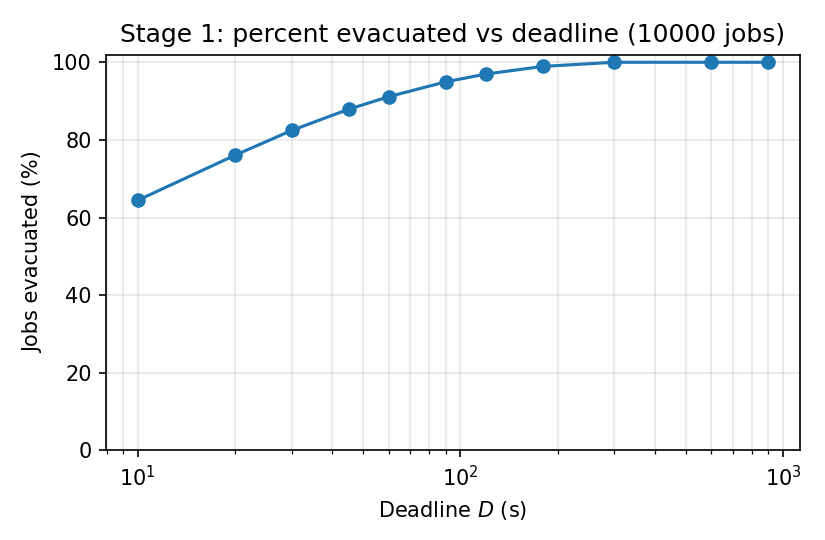
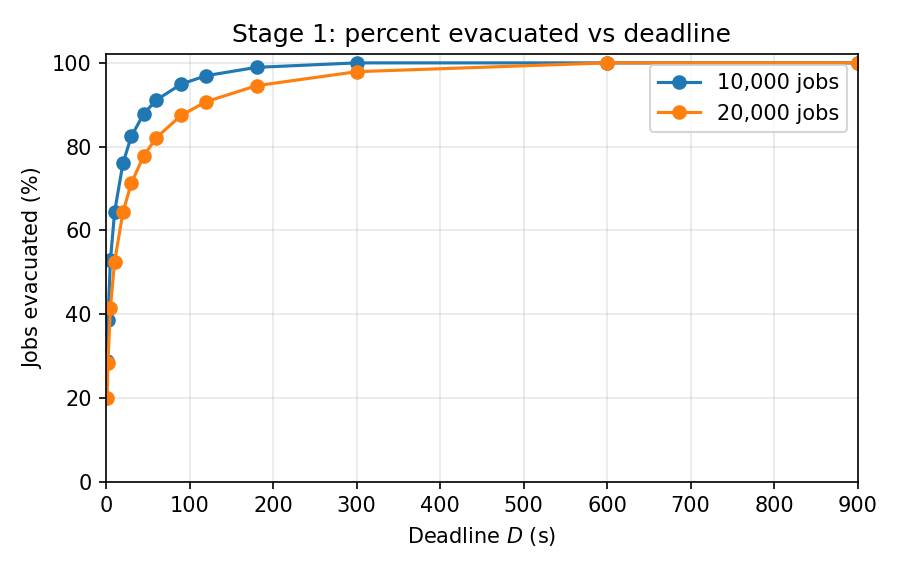
Sweep deadline plot: linear axis, D down to 1s, 10k vs 20k overlay
JOB_COUNTS constant lets the script overlay multiple workload sizes on
one figure. D range now spans 1s..900s and uses a linear axis for the
tight-deadline cliff. CSV grows a `total_jobs` column.

Changed region(s): [[0.0, 0.0296, 0.9697, 0.9778], [0.1818, 0.2963, 0.2727, 0.3556]]

diff --git a/agent-migrate/evacuation/plot_evacuation_vs_deadline.py b/agent-migrate/evacuation/plot_evacuation_vs_deadline.py
@@ -1,9 +1,11 @@
 """Sweep deadline D and plot percent of jobs evacuated.
 
+Edit `JOB_COUNTS` to overlay additional workload sizes.
+
 Usage:
     cd evacuation && uv run python plot_evacuation_vs_deadline.py
 
-Writes `outputs/percent_evacuated_vs_D.pdf` and `outputs/sweep_D.csv`.
+Writes `outputs/percent_evacuated_vs_D.{pdf,png}` and `outputs/sweep_D.csv`.
 """
 
 from __future__ import annotations
@@ -13,35 +15,43 @@ from pathlib import Path
 
 import matplotlib.pyplot as plt
 
-from instance import build_instance, TOTAL_JOBS_DEFAULT
+from instance import build_instance
 from stage1 import solve_stage1
 
-D_SWEEP_S = (10, 20, 30, 45, 60, 90, 120, 180, 300, 600, 900)
+D_SWEEP_S = (1, 2, 5, 10, 20, 30, 45, 60, 90, 120, 180, 300, 600, 900)
+JOB_COUNTS = (10_000, 20_000)
 
 
 def main() -> None:
     out = Path(__file__).resolve().parent / "outputs"
     out.mkdir(exist_ok=True)
     rows = []
-    for D in D_SWEEP_S:
-        res = solve_stage1(build_instance(D=float(D)))
-        evacuated = TOTAL_JOBS_DEFAULT - res.Z_star
-        rows.append((D, res.Z_star, 100.0 * evacuated / TOTAL_JOBS_DEFAULT))
-        print(f"D={D:4d}s  Z*={res.Z_star:7.1f}  {rows[-1][2]:5.1f}% evacuated")
+    series: dict[int, list[float]] = {}
+    for jobs in JOB_COUNTS:
+        pct = []
+        for D in D_SWEEP_S:
+            res = solve_stage1(build_instance(D=float(D), total_jobs=jobs))
+            evacuated_pct = 100.0 * (jobs - res.Z_star) / jobs
+            pct.append(evacuated_pct)
+            rows.append((jobs, D, res.Z_star, evacuated_pct))
+            print(f"jobs={jobs:6d}  D={D:4d}s  Z*={res.Z_star:8.1f}  {evacuated_pct:5.1f}% evacuated")
+        series[jobs] = pct
 
     with (out / "sweep_D.csv").open("w", newline="") as fh:
         writer = csv.writer(fh)
-        writer.writerow(["D_s", "Z_star", "percent_evacuated"])
+        writer.writerow(["total_jobs", "D_s", "Z_star", "percent_evacuated"])
         writer.writerows(rows)
 
-    fig, ax = plt.subplots(figsize=(5.5, 3.6))
-    ax.plot([r[0] for r in rows], [r[2] for r in rows], marker="o", linewidth=1.5)
-    ax.set_xscale("log")
+    fig, ax = plt.subplots(figsize=(6.0, 3.8))
+    for jobs, pct in series.items():
+        ax.plot(D_SWEEP_S, pct, marker="o", label=f"{jobs:,} jobs", linewidth=1.5)
     ax.set_xlabel("Deadline $D$ (s)")
     ax.set_ylabel("Jobs evacuated (%)")
     ax.set_ylim(0, 102)
-    ax.set_title(f"Stage 1: percent evacuated vs deadline ({TOTAL_JOBS_DEFAULT} jobs)")
-    ax.grid(True, which="both", alpha=0.3)
+    ax.set_xlim(0, max(D_SWEEP_S))
+    ax.set_title("Stage 1: percent evacuated vs deadline")
+    ax.grid(True, alpha=0.3)
+    ax.legend()
     fig.tight_layout()
     fig.savefig(out / "percent_evacuated_vs_D.pdf")
     fig.savefig(out / "percent_evacuated_vs_D.png", dpi=150)
